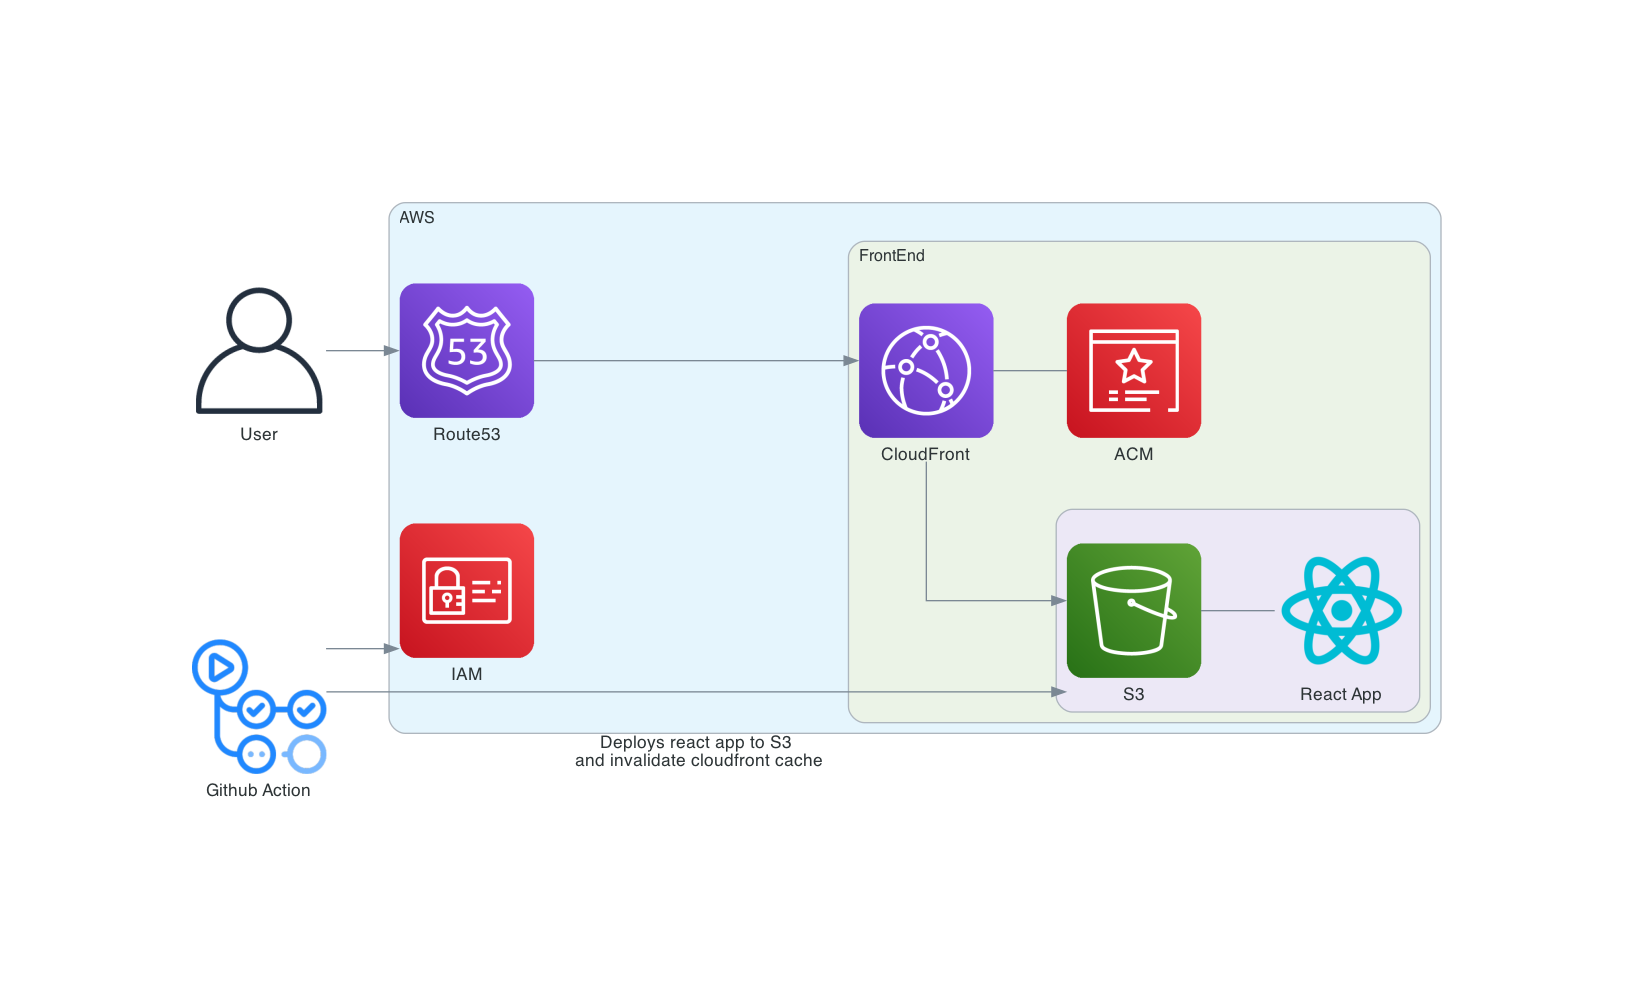
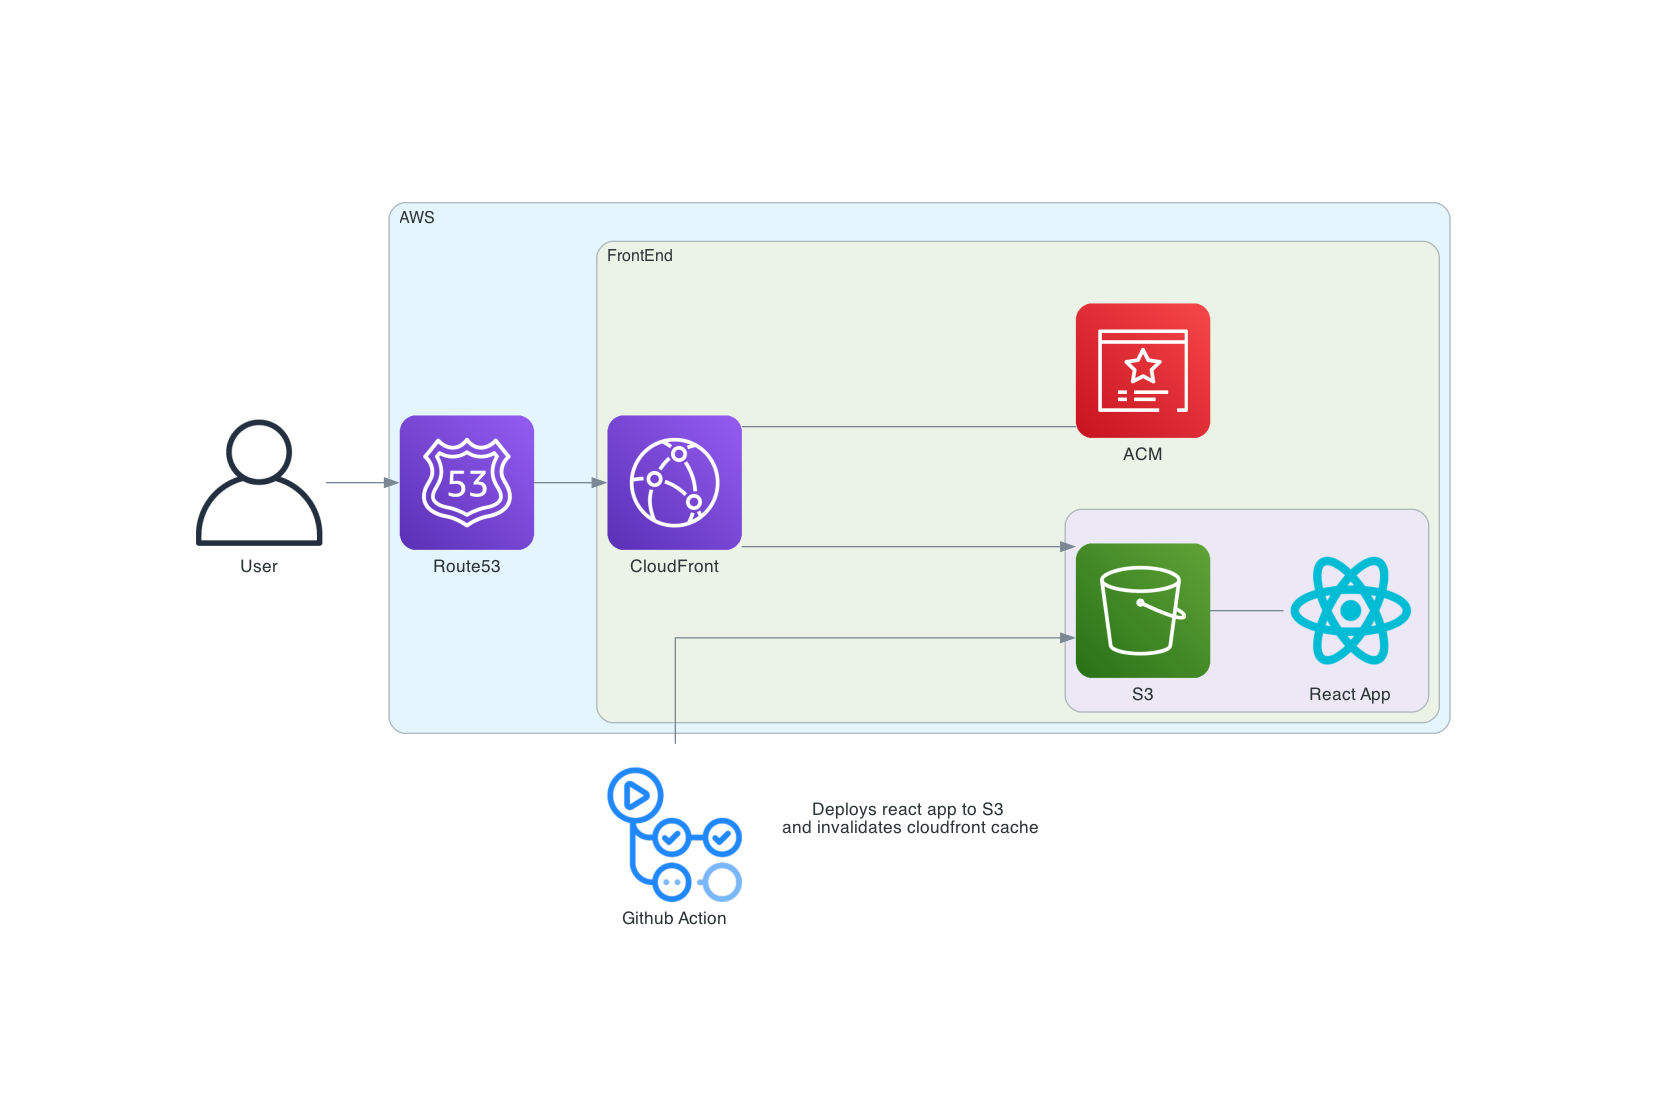
diagrams: Update frontend

diff --git a/diagrams/frontend_diagram.py b/diagrams/frontend_diagram.py
@@ -2,7 +2,7 @@ from diagrams import Cluster, Diagram, Edge
 from diagrams.aws.general import User
 from diagrams.aws.network import Route53, CloudFront
 from diagrams.aws.storage import S3
-from diagrams.aws.security import ACM, IAM
+from diagrams.aws.security import ACM
 from diagrams.programming.framework import React
 from diagrams.onprem.ci import GithubActions
 
@@ -12,7 +12,6 @@ with Diagram("", filename="frontend_diagram", outformat="png"):
 
   with Cluster("AWS"):
     route_53 = Route53("Route53")
-    iam_role_s3 = IAM("IAM")
 
     with Cluster("FrontEnd"):
         cdn = CloudFront("CloudFront")
@@ -25,5 +24,4 @@ with Diagram("", filename="frontend_diagram", outformat="png"):
 
   user >> route_53 >> cdn
 
-  github_action_s3 >> iam_role_s3
-  github_action_s3 >> Edge(label="Deploys react app to S3\n and invalidate cloudfront cache") >> s3_bucket
+  github_action_s3 >> Edge(label="Deploys react app to S3\n and invalidates cloudfront cache") >> s3_bucket
